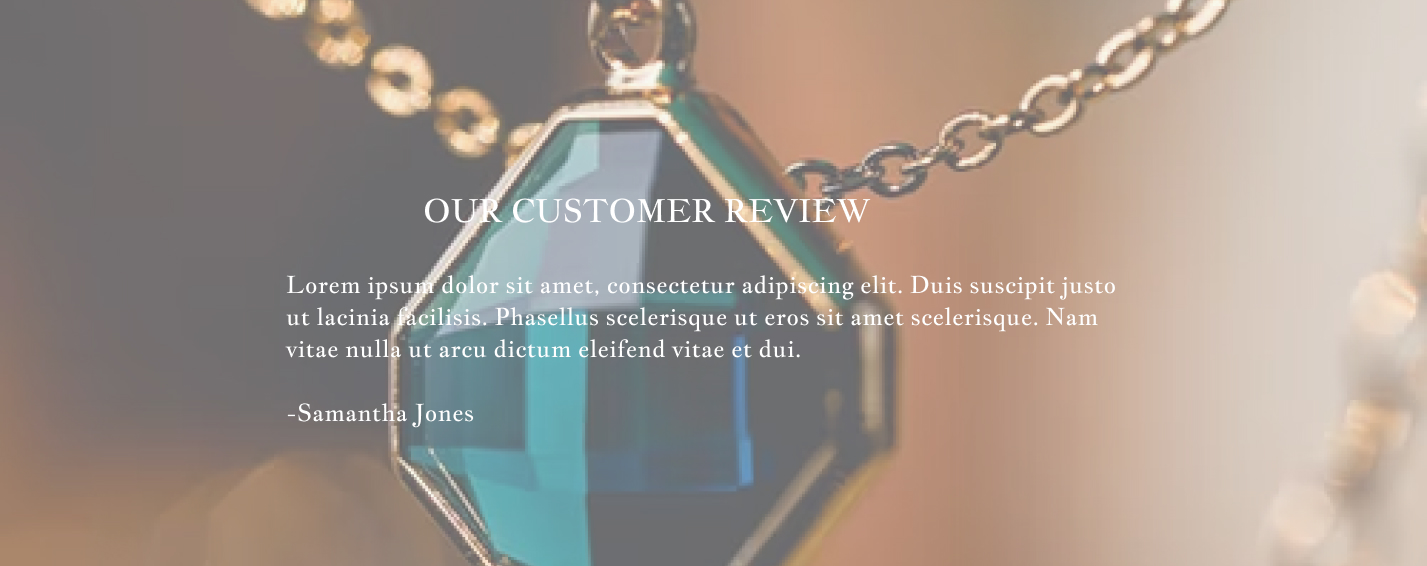
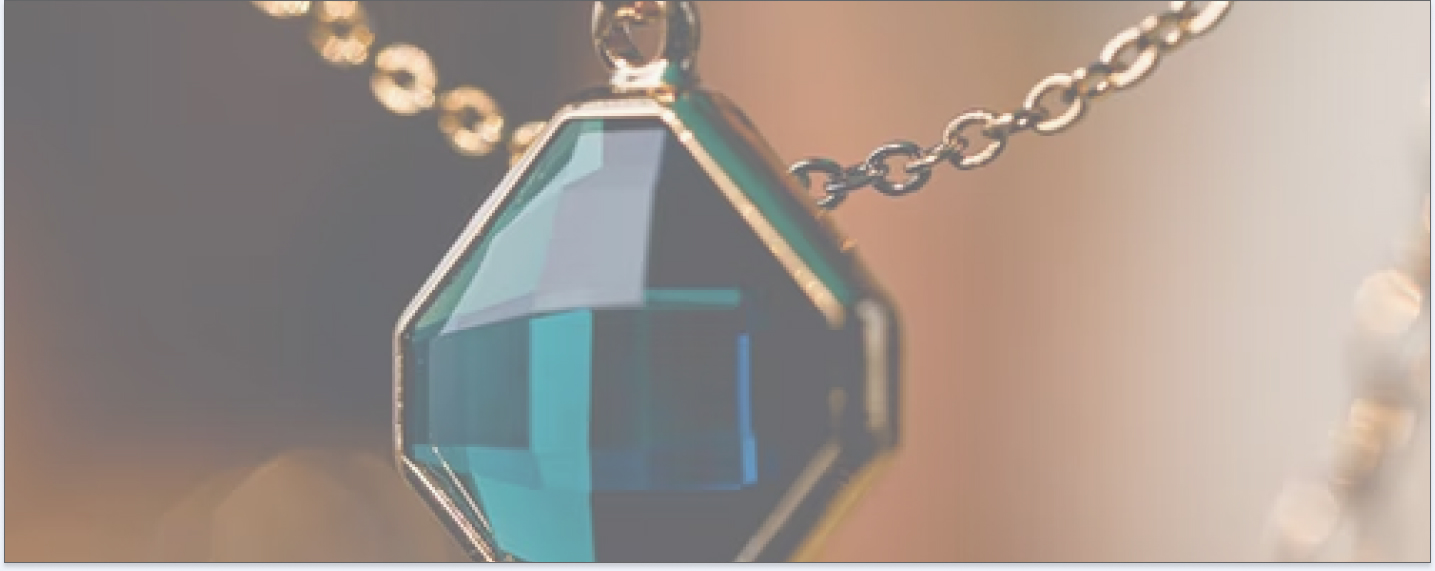
finish creat pages

diff --git a/src/style/style.scss b/src/style/style.scss
@@ -13,8 +13,178 @@ body{
     display: flex;
     flex-direction: column;
     font-weight: 400;
+    background-color: #EEF2F9;
 }
 
 img{
     width: 100%;
+}
+
+main{
+    display: flex;
+    flex-direction: column;
+
+    .exclusive{
+        display: flex;
+        justify-content: space-around;
+        align-items: center;
+        font-family: Jacques Francois sans-serif;
+        margin-right: 250px;
+
+        img{
+            max-width: 600px;
+        }
+
+        &__info{            
+            max-width: 590px;
+            width: 100%;
+            
+            h1{
+                margin-bottom: 15px;
+                color: #8E6B0F;
+                font-size: 48px;
+                text-transform: uppercase;
+            }
+
+            p{
+                margin-bottom: 47px;
+                color: #17407D;
+                font-size: 24px;
+            }
+
+            button{
+                color: #FFF;
+                padding: 20px 40px;
+                border: none;
+                border-radius: 48px;
+                box-shadow: 0px 4px 7px 0px rgba(0, 0, 0, 0.36);
+                background: #17407D;
+                font-size: 32px;
+            }
+        }
+    }
+
+    .category{
+        display: flex;
+        font-family: Jacques Francois sans-serif;
+        background-color: #FFF;
+        
+        div{
+            display: flex;
+            flex-direction: column;
+            align-items: center;
+            max-width: 1430px;
+            width: 100%;
+            margin: 88px auto 0;
+        }
+
+        h3{
+            color: #8E6B0F;
+            font-size: 40px;
+            text-transform: uppercase;
+            margin-bottom: 25px;
+        }
+        
+        p{
+            margin-bottom: 25px;
+            max-width: 838px;
+            width: 100%;
+            color: #17407D;
+            font-size: 24px;
+        }
+
+        #gallery{
+            display: grid;
+            grid-template-columns: repeat(2, 1fr);
+            grid-column-gap: 20px;
+        }
+    }
+
+    .make{
+        margin: 73px 0 0;
+        display: flex;
+        justify-content: center;
+        background-color: #fff;
+
+        div{
+            display: flex;
+            flex-direction: column;
+            justify-content: center;
+            max-width: 640px;
+            width: 100%;
+            font-family: Jacques Francois sans-serif;
+            margin-right: 15px;
+
+            h3{
+                margin-bottom: 104px;
+                display: flex;
+                justify-content: space-between;
+                text-transform: uppercase;
+                align-self: end;
+                position: relative;
+                text-shadow: 104px 4px 23px rgba(0, 0, 0, 0.25);
+                text-transform: uppercase;
+                
+                p{
+                    color: #8E6B0F;
+                    font-size: 40px;
+                    margin: 0;
+                }
+                
+                span{
+                    position: absolute;
+                    color: #FFF;
+                    font-size: 40px;
+                    right: -280px;
+                }
+            }
+            p{
+                color: #17407D;
+                font-size: 24px;
+                margin-bottom: 67px;
+            }
+
+            button{
+                align-self: baseline;
+                border-radius: 48px;
+                background-color: #17407D;
+                box-shadow: 0px 4px 7px 0px rgba(0, 0, 0, 0.36);
+                color: #FFF;
+                font-size: 32px;
+                padding: 21px 99px;
+            }
+        }
+
+        img{
+            max-width: 815px;
+        }
+    }
+
+    .review{
+        margin: 147px auto 159px;
+        background-image: url('../images/necklace_3.jpg');
+        background-size: cover;
+        display: flex;
+        height: 566px;
+        max-width: 1470px;
+        width: 100%;
+        color: #FFF;
+        font-family: Jacques Francois sans-serif;
+        
+        div{
+            margin: auto;
+            max-width: 855px;
+            width: 100%;
+
+            h3{
+                margin-bottom: 45px;
+                font-size: 32px;
+                text-transform: uppercase;
+                text-align: center;
+            }
+            p{
+                font-size: 24px;
+            }
+        }
+    }
 }

diff --git a/src/index.html b/src/index.html
@@ -1,5 +1,6 @@
 <!DOCTYPE html>
 <html lang="en">
+
 <head>
     <meta charset="UTF-8">
     <meta name="viewport" content="width=device-width, initial-scale=1.0">
@@ -7,6 +8,7 @@
     <link rel="stylesheet" href="./style/style.css">
     <title>Jewelery</title>
 </head>
+
 <body>
     <header>
         <div>
@@ -15,15 +17,61 @@
                 <li>Product</li>
                 <li>About Us</li>
             </ul>
-            <p>Jewels  By Me</p>
+            <p>Jewels By Me</p>
             <img src="./images/icon/Search.svg" alt="logo">
         </div>
     </header>
-    <main></main>
+    <main>
+        <div class="exclusive">
+            <img src="./images/necklace_1.jpg" alt="necklace">
+            <div class="exclusive__info">
+                <h1>exclusive jewelry design</h1>
+                <p>Lorem ipsum dolor sit amet, consectetur adipiscing elit. Duis suscipit justo ut lacinia facilisis.
+                    Phasellus scelerisque ut eros sit amet scelerisque. Nam vitae nulla ut arcu dictum eleifend vitae et
+                    dui. </p>
+                <button>Explore Now</button>
+            </div>
+        </div>
+        <div class="category">
+            <div>
+                <h3>jewelry by category</h3>
+                <p>Lorem ipsum dolor sit amet, consectetur adipiscing elit. Duis suscipit justo ut lacinia facilisis.
+                    Phasellus scelerisque ut eros sit amet scelerisque. Nam vitae nulla ut arcu dictum eleifend vitae et
+                    dui. </p>
+                <div id="gallery">
+                    <img src="./images/bracelet_1.jpg" alt="bracelet">
+                    <img src="./images/necklace_2.jpg" alt="necklace">
+                    <img src="./images/bracelet_2.jpg" alt="bracelet">
+                    <img src="./images/ring.jpg" alt="ring">
+                </div>
+            </div>
+        </div>
+        <div class="make">
+            <div>
+                <h3>
+                    <p>jewels that</p><span>make you</span>
+                </h3>
+                <p>Lorem ipsum dolor sit amet, consectetur adipiscing elit. Duis suscipit justo ut lacinia facilisis.
+                    Phasellus scelerisque ut eros sit amet scelerisque. Nam vitae nulla ut arcu dictum eleifend vitae et
+                    dui. </p>
+                <button>Shop Now</button>
+            </div>
+            <img src="./images/decoration.jpg" alt="decoration">
+        </div>
+        <div class="review">
+            <div>
+                <h3>our customer reviews</h3>
+                <p>Lorem ipsum dolor sit amet, consectetur adipiscing elit. Duis suscipit justo ut lacinia facilisis.
+                    Phasellus scelerisque ut eros sit amet scelerisque. Nam vitae nulla ut arcu dictum eleifend vitae et
+                    dui. <br><br>-Samantha Jones
+                </p>
+            </div>
+        </div>
+    </main>
     <footer>
         <div class="info">
             <div>
-                <p>Jewels  By Me</p>
+                <p>Jewels By Me</p>
                 <ul class="info__nav">
                     <li>Shop</li>
                     <li>Product</li>
@@ -36,7 +84,8 @@
                 </ul>
             </div>
         </div>
-        <p class="no-copy">©  all rights reserved</p>
+        <p class="no-copy">© all rights reserved</p>
     </footer>
 </body>
+
 </html>

diff --git a/src/style/main-block/header.scss b/src/style/main-block/header.scss
@@ -1,5 +1,6 @@
 header{
     display: flex;
+    background-color: #fff;
     
     div{
         display: flex;
